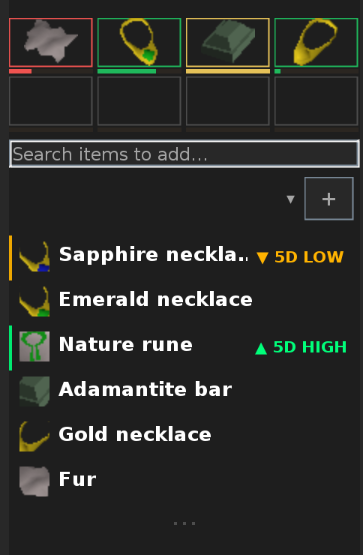
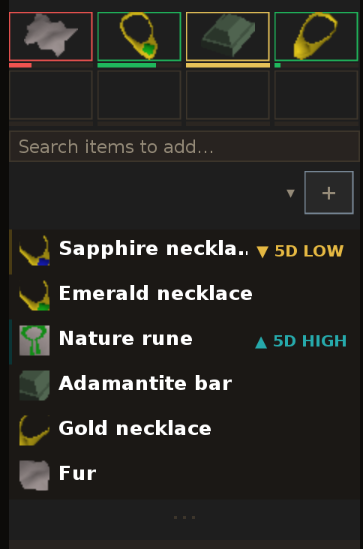
Release 0.7.0: current screenshots and hub figures
The README's pictures are rendered from the real panel code rather than
captured, which is the only reason they can be kept honest — and the
palette change made all six of them wrong at once. Regenerated with item
sprites, so the hub listing shows the plugin as it is rather than as it
was two colours ago.

The card's alt text was describing a card that no longer exists: it named
CAPITAL where the cell now reads CAPITAL NEEDED, and stopped before the
footnote row and pager that were added since.

The hub PR body's size figures were four months stale (21065 lines / 254
tests, against 22172 / 275).

Claude-Session: https://claude.ai/code/session_01CrbbnpxzzXajkmFNwfAgTw

diff --git a/README.md b/README.md
@@ -50,7 +50,7 @@ too busy for you, there's a switch to turn them all off.
 
 ### Flip ideas, ranked and actually affordable
 
-![The flip card: Sapphire necklace with Buy under it, a flip score of 79 marked Strong Flip with a meter, BUY @ 1,120 and SELL @ 1,169 boxed side by side, +296K gp profit in large green, and QUANTITY 18,000 beside CAPITAL 20,160,000 gp.](./docs/screenshots/part-card.png)
+![The flip card: Sapphire necklace with BUY and "from the Exchange" under it, a flip score of 79 marked Strong Flip with a meter, BUY @ 1,120 and SELL @ 1,169 boxed side by side, +296K gp profit in large green, QUANTITY 18,000 beside CAPITAL NEEDED 20,160,000 gp, and "Sized to the cash you have free" on the last line with the 1/2 pager and the chart, watchlist and paging buttons under it.](./docs/screenshots/part-card.png)
 
 The headline card shows one idea at a time: what to buy or sell, at what
 price, how many, **the capital it ties up**, and the profit if it fills, after

diff --git a/docs/hub-pr-body.md b/docs/hub-pr-body.md
@@ -64,8 +64,8 @@ area the third-party client guidelines care about:
 
 ### Size
 
-Larger than a typical hub plugin — roughly 21065 lines across 34 files,
-plus 254 unit tests. The bulk is the sidebar UI (`AdvisorPanel`,
+Larger than a typical hub plugin — roughly 22172 lines across 36 files,
+plus 275 unit tests. The bulk is the sidebar UI (`AdvisorPanel`,
 `FavoritesPanel`) and the pricing engine (`TradeEngine`, a port of the
 website's own target-price maths so the two agree).
 
